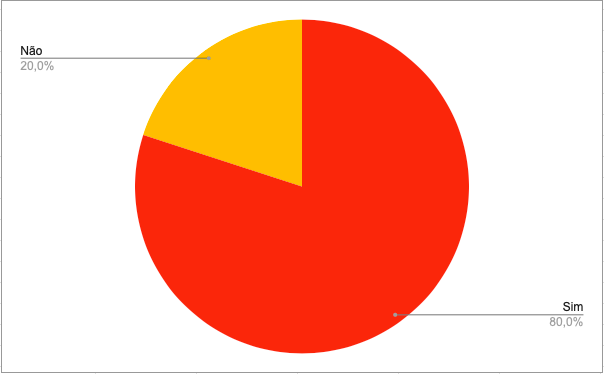
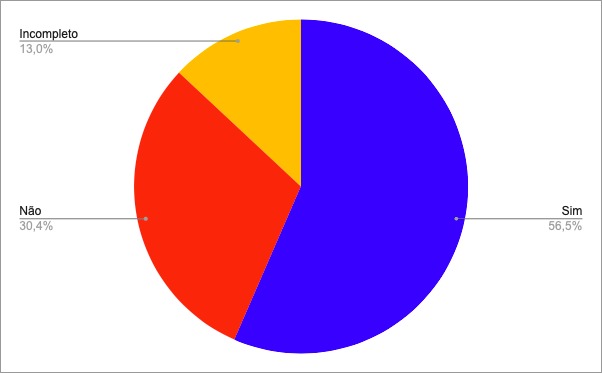
Correcao verificacao planejamnto analise de tarefas

diff --git a/docs/Verificacao/OpenStreetMap/Entrega4/Planejamento-Avaliacao-AnaliseTarefas.md b/docs/Verificacao/OpenStreetMap/Entrega4/Planejamento-Avaliacao-AnaliseTarefas.md
@@ -18,30 +18,33 @@ Reavaliamos nosso checklist com base nos pontos levantados pelo grupo 3 e nas li
 
 ## Checklist
 
-Os checklists foram estabelecidos com base nos critérios do livro Interação Humano-Computador[4], nas verificações realizadas pelo nosso grupo, OpenStreetMap[5], e pelo Grupo 3, Banco Central[6], além das perguntas padrões estabelecidas no [Planejamento Geral](../0planejamento-geral.md). A tabela abaixo apresenta o checklist de verificação da versão 1.0 do artefato do Planejamento da Análise de Tarefas.
+Os checklists foram estabelecidos com base nos critérios do livro Interação Humano-Computador e Experiência do usuário (capítulo 11)[4], nas verificações realizadas pelo nosso grupo, OpenStreetMap[5], e pelo Grupo 3, Banco Central[6], além das perguntas padrões estabelecidas no [Planejamento Geral](../0planejamento-geral.md). A tabela abaixo apresenta o checklist de verificação da versão 1.0 do artefato do Planejamento da Análise de Tarefas.
 
-| ID | Pergunta                                                                                                                        | Avaliação | Observação |
-|----|---------------------------------------------------------------------------------------------------------------------------------|-----------|------------|
-| 1  | O artefato possui uma introdução condizente com o conteúdo do texto?                                                           |    Sim       |            |
-| 2  | Todas as bibliografias/referências bibliográficas são utilizadas no texto?                                                     |      Sim     |            |
-| 3  | Todas as tabelas e figuras são chamadas no texto, possuem legendas e fontes?                                                   |    Sim       |           |
-| 4  | As metodologias do texto definem de forma condizente as formas e os métodos que o grupo realizou o artefato?                   |     Sim      |            |
-| 5  | O artefato segue o Framework DECIDE?                                                                                            |    Sim       |           |
-| 6  | O artefato define claramente as metas e objetivos da avaliação?                                                                 |    Sim       |            |
-| 7  | O artefato indica quais métodos de avaliação serão utilizados?                                       |          Sim |           |
-| 8  | Os métodos escolhidos para a avaliação são apropriados?                                                                       |     Sim      |            |
-| 9  | O artefato considera e aborda questões práticas relevantes para a avaliação?                                                    |      Sim     |            |
-| 10 | O artefato informa a quantidade de participantes envolvidos na avaliação e o motivo dessa quantidade?                             |     Não      |          |
-| 11 | O perfil dos participantes foi definido?                                                                                        |  Sim         |            |
-| 12 | O artefato possui um cronograma com datas, horários e locais das tarefas a serem executadas pelos participantes?                |     Não      |           |
-| 13 | O artefato identifica e descreve as questões específicas que a avaliação das análises de tarefas deve responder?                |     Sim      |            |
-| 14 | O artefato apresenta as ferramentas que serão utilizadas na avaliação?                                                                      |    Não       |            |
-| 15 | O artefato contempla considerações éticas importantes relacionadas à avaliação?                                  |      Sim     |            |
-| 16 | Foi realizado um teste piloto?                                                                                                  |    Não       |          |
-| 17 | O artefato apresenta os resultados obtidos com o teste piloto?                                                                  |    Não       |            |
-| 18 | O artefato apresenta quais tarefas serão avaliados?                                                                          |    Sim       |           |
-| 19 | O artefato possui a mesma quantidade de tarefas em relação à quantidade de integrantes do grupo?                           |     Sim      |           |
-| 20 | O artefato descreve como os dados coletados serão analisados e utilizados?                                                      |     Sim      |            |
+| ID | Pergunta | Avaliação | Observação |
+|----|----------|-----------|------------|
+| 1  | O artefato possui uma introdução condizente com o conteúdo do texto? | Sim |  |
+| 2  | Todas as bibliografias/referências bibliográficas são utilizadas no texto? | Sim |  |
+| 3  | Todas as tabelas e figuras são chamadas no texto, possuem legendas e fontes? | Sim |  |
+| 4  | As metodologias do texto definem de forma condizente as formas e os métodos que o grupo realizou o artefato? | Sim |  |
+| 5  | O artefato segue a estrutura do framework DECIDE? | Sim |  |
+| 6  | Os objetivos (que podem ser apropriação de tecnologia pelos usuários, ideias e alternativas de design, conformidade com um padrão, problemas na interação e na interface) estão claros e corretamente definidos? | Sim | Poderia deixar mais claro os principais objetivos |
+| 7  | Como atingir os objetivos (perguntas mais específicas para torná-los operacionais, perguntas a serem respondidas para verificar se os objetivos foram atingidos) está claro no artefato? | Não |  |
+| 8  | Os métodos (investigação, observação e/ou inspeção) para executar a avaliação estão definidos? | Sim |  |
+| 9  | Caso o método escolhido para avaliação envolva usuários, o perfil dos participantes foi especificado? | Sim |  |
+| 10 | Caso o método escolhido para avaliação envolva usuários, o número de participantes foi especificado? | Não |  |
+| 11 | O número de participantes tem um motivo para ter sido escolhido? | Não |  |
+| 12 | Caso o método escolhido para avaliação envolva usuários, as questões éticas são apresentadas com um termo de consentimento? | Incompleto | Não está claro a presença de um termo de consentimento |
+| 13 | Caso o método escolhido para avaliação envolva usuários, é apresentado um questionário pré-teste (questões relacionadas a características pessoais, experiências anteriores com tecnologia e conhecimento sobre o domínio, por exemplo) ou roteiro de entrevista estruturada para coletar informações dos participantes? | Incompleto | Possui as perguntas a serem realizadas na avaliação, porem não estão divididas em pré-teste e pós-teste, o que pode causar uma confusão no entrevistador |
+| 14 | Caso o método escolhido para avaliação envolva usuários, é apresentado um roteiro de entrevista pós-teste (questões relacionadas a informações sobre a opinião e os sentimentos do participante decorrentes da experiência de uso observada)? | Incompleto | Possui as perguntas a serem realizadas na avaliação, porem não estão divididas em pré-teste e pós-teste, o que pode causar uma confusão no entrevistador |
+| 15 | O escopo da avaliação (delimitar quais partes da interface, caminhos de interação, tarefas e perfis de usuário devem fazer parte da avaliação) está definido? | Sim |  |
+| 16 | O escopo da avaliação está de acordo com os objetivos? | Sim |  |
+| 17 | Os recursos para realizar a avaliação estão indicados? | Sim | Poderia criar um tópico separado para falar dos recursos |
+| 18 | Os avaliadores que participarão da avaliação estão apresentados? | Não |  |
+| 19 | Possui prazo/cronograma para realizar as etapas das avaliações? | Não |  |
+| 20 | O artefato apresenta a menção de um teste piloto? | Não | |
+| 21 | O artefato apresenta a realização de um teste piloto? | Não |  |
+| 22 | O artefato apresenta como os dados coletados serão interpretados para atribuir significado a eles? | Sim |  |
+| 23 | O artefato apresenta como será o relato dos resultados utilizando uma consolidação após a interpretação? | Sim |  |
 
 
 A figura 1 abaixo apresenta um gráfico de pizza com o resultado da avaliação do checklist do Planejamento da Análise de Tarefas.
@@ -62,11 +65,18 @@ Com base na inspeção realizada, passaremos para o processo de correção. Iden
 
 |ID |Descrição resumida|Detalhes da correção|Responsável pela correção|Revisor|Status|
 |-------|------|------|---------|---|--|
-| 10 | O artefato não informa a quantidade de participantes envolvidos na avaliação nem o motivo dessa quantidade |   Especificar a quantidade de participantes e o motivo dessa quantidade     | Guilherme ||-|
-| 12 | O artefato não possui um cronograma.      |  |Guilherme||-
-| 14 | Não há menção das ferramentas que serão utilizadas na avaliação |  Falar as ferramentas que serão utilizadas na avaliação.     | Guilherme ||-|
-| 16 | Não possui teste piloto. |       | Guilherme ||-|
-| 17 | Não possui teste piloto. |       | Guilherme ||-|
+| 7 | O artefato não apresenta as perguntas a serem respondidas para verificar se os objetivos foram alcançados |   Apresentar as perguntas para verificar se os objetivos da avaliação foram alcançados     | Raquel e Caetano | Guilherme |-|
+| 10 | O número de participantes não foi especificado.      | Especificar a quantidade de participantes da avaliação. |Raquel e Caetano| Guilherme |-
+| 11 | Não há o motivo do número dos participantes. |  Apresentar a motivo da escolha da quantidade dos participantes escolhidos.     | Raquel e Caetano |Guilherme|-|
+| 12 | Não está claro a presença de um termo de consentimento. |    O artefato fala sobre questões éticas, porem não fala sobre o termo de consentimento.   | Raquel e Caetano |Guilherme|-|
+| 13 | Não está claro quais são as perguntas pré-teste. |   Dividir a tabela das perguntas em pré-teste e pós-teste   | Raquel e Caetano |Guilherme|-|
+| 14 | Não está claro quais são as perguntas pós-teste. |   Dividir a tabela das perguntas em pré-teste e pós-teste   | Raquel e Caetano |Guilherme|-|
+| 18 | Os avaliadores que participarão da avaliação não estão apresentados. |   Apresentar os avaliadores envolvidos na avaliação.  | Raquel e Caetano |Guilherme|-|
+| 19 | Não possui prazo/cronograma para realizar as etapas das avaliações. |   Apresentar um cronograma para realizar as etapas das avaliações.  | Raquel e Caetano |Guilherme|-|
+| 20 | O artefato não apresenta a menção de um teste piloto. |   Apresentar que será realizado um teste piloto.  | Raquel e Caetano |Guilherme|-|
+| 21 | O artefato não apresenta a realização de um teste piloto. |   Apresentar um teste piloto.  | Raquel e Caetano |Guilherme|-|
+
+
 
 
 Tabela 2 - Distribuição da Correção dos Artefatos (Fonte: Autores)
@@ -78,41 +88,36 @@ Abaixo, na tabela 3, encontra-se o checklist feito após a correção do Planeja
 
 <center>
 
-| ID | Pergunta                                                                                                                        | Avaliação | Observação |
-|----|---------------------------------------------------------------------------------------------------------------------------------|-----------|------------|
-| 1  | O artefato possui uma introdução condizente com o conteúdo do texto?                                                           |    Sim       |            |
-| 2  | Todas as bibliografias/referências bibliográficas são utilizadas no texto?                                                     |      Sim     |            |
-| 3  | Todas as tabelas e figuras são chamadas no texto, possuem legendas e fontes?                                                   |    Sim       |           |
-| 4  | As metodologias do texto definem de forma condizente as formas e os métodos que o grupo realizou o artefato?                   |     Sim      |            |
-| 5  | O artefato segue o Framework DECIDE?                                                                                            |    Sim       |           |
-| 6  | O artefato define claramente as metas e objetivos da avaliação?                                                                 |    Sim       |            |
-| 7  | O artefato indica quais métodos de avaliação serão utilizados?                                       |          Sim |           |
-| 8  | Os métodos escolhidos para a avaliação são apropriados?                                                                       |     Sim      |            |
-| 9  | O artefato considera e aborda questões práticas relevantes para a avaliação?                                                    |      Sim     |            |
-| 10 | O artefato informa a quantidade de participantes envolvidos na avaliação e o motivo dessa quantidade?                             |     Sim      |          |
-| 11 | O perfil dos participantes foi definido?                                                                                        |  Sim         |            |
-| 12 | O artefato possui um cronograma com datas, horários e locais das tarefas a serem executadas pelos participantes?                |     Sim      |           |
-| 13 | O artefato identifica e descreve as questões específicas que a avaliação das análises de tarefas deve responder?                |     Sim      |            |
-| 14 | O artefato apresenta as ferramentas que serão utilizadas na avaliação?                                                                      |    Sim       |            |
-| 15 | O artefato contempla considerações éticas importantes relacionadas à avaliação?                                  |      Sim     |            |
-| 16 | Foi realizado um teste piloto?                                                                                                  |    Não       |          |
-| 17 | O artefato apresenta os resultados obtidos com o teste piloto?                                                                  |    Não       |            |
-| 18 | O artefato apresenta quais tarefas serão avaliados?                                                                          |    Sim       |           |
-| 19 | O artefato possui a mesma quantidade de tarefas em relação à quantidade de integrantes do grupo?                           |     Sim      |           |
-| 20 | O artefato descreve como os dados coletados serão analisados e utilizados?                                                      |     Sim      |            |
+| ID | Pergunta | Avaliação | Observação |
+|----|----------|-----------|------------|
+| 1  | O artefato possui uma introdução condizente com o conteúdo do texto? |  |  |
+| 2  | Todas as bibliografias/referências bibliográficas são utilizadas no texto? |  |  |
+| 3  | Todas as tabelas e figuras são chamadas no texto, possuem legendas e fontes? |  |  |
+| 4  | As metodologias do texto definem de forma condizente as formas e os métodos que o grupo realizou o artefato? |  |  |
+| 5  | O artefato segue a estrutura do framework DECIDE? |  |  |
+| 6  | Os objetivos (que podem ser apropriação de tecnologia pelos usuários, ideias e alternativas de design, conformidade com um padrão, problemas na interação e na interface) estão claros e corretamente definidos? |  |  |
+| 7  | Como atingir os objetivos (perguntas mais específicas para torná-los operacionais, perguntas a serem respondidas para verificar se os objetivos foram atingidos) está claro no artefato? |  |  |
+| 8  | Os métodos (investigação, observação e/ou inspeção) para executar a avaliação estão definidos? |  |  |
+| 9  | Caso o método escolhido para avaliação envolva usuários, o perfil dos participantes foi especificado? |  |  |
+| 10 | Caso o método escolhido para avaliação envolva usuários, o número de participantes foi especificado? |  |  |
+| 11 | O número de participantes tem um motivo para ter sido escolhido? |  |  |
+| 12 | Caso o método escolhido para avaliação envolva usuários, as questões éticas são apresentadas com um termo de consentimento? |  |  |
+| 13 | Caso o método escolhido para avaliação envolva usuários, é apresentado um questionário pré-teste (questões relacionadas a características pessoais, experiências anteriores com tecnologia e conhecimento sobre o domínio, por exemplo) ou roteiro de entrevista estruturada para coletar informações dos participantes? |  |  |
+| 14 | Caso o método escolhido para avaliação envolva usuários, é apresentado um roteiro de entrevista pós-teste (questões relacionadas a informações sobre a opinião e os sentimentos do participante decorrentes da experiência de uso observada)? |  |  |
+| 15 | O escopo da avaliação (delimitar quais partes da interface, caminhos de interação, tarefas e perfis de usuário devem fazer parte da avaliação) está definido? |  |  |
+| 16 | O escopo da avaliação está de acordo com os objetivos? |  |  |
+| 17 | Os recursos para realizar a avaliação estão indicados? |  |  |
+| 18 | Os avaliadores que participarão da avaliação estão apresentados? |  |  |
+| 19 | Possui prazo/cronograma para realizar as etapas das avaliações? |  |  |
+| 20 | O artefato apresenta a menção de um teste piloto? |  | |
+| 21 | O artefato apresenta a realização de um teste piloto? |  |  |
+| 22 | O artefato apresenta como os dados coletados serão interpretados para atribuir significado a eles? |  |  |
+| 23 | O artefato apresenta como será o relato dos resultados utilizando uma consolidação após a interpretação? |  |  |
 
 Tabela 3 - Checklist Pós Correção do Planejamento da Avaliação da Análise de Tarefas (Fonte: Autores)
 
 </center>
 
-A figura 2 abaixo mostra um gráfico de pizza com o resultado da avaliação do checklist do Planejamento da Análise de Tarefas após a correção.
-
-<center>
-
-<img src="../../assets/img/planejamento-Tarefas-depois.png"></img>
-<p>Figura 2 - Gráfico Checklist Pós Correção Planejamento da Análise de Tarefas (Fonte: Autores)</p>
-
-</center>
 
 ## Referência bibliográfica
 
@@ -122,7 +127,7 @@ A figura 2 abaixo mostra um gráfico de pizza com o resultado da avaliação do 
 
 > [3] BUSH, Marilyn, Chris Gerrard, Clifford Shelley. Fagan Inspection: The Silver Bullet No-one Wants to Fire. London SPIN, 25 mar. 2010.
 
-> [4] BARBOSA, S. D. J.; SILVA, B. S. Interação Humano-Computador. Rio de Janeiro: Elsevier, 2011. Acesso em 17/06/2023
+> [4] Barbosa, S. D. J.; Silva, B. S. da; Silveira, M. S.; Gasparini, I.; Darin, T.; Barbosa, G. D. J. (2021) Interação Humano-Computador e Experiência do usuário.
 
 > [5] KISHIMOTO, Guilherme. Verificação do artefato "Planejamento da Análise de Tarefas". Repositório do Grupo OpenStreetMap da disciplina de Interação Humano Computador da Universidade de Brasília, 2023. Disponível em: https://interacao-humano-computador.github.io/2023.1-OpenStreetMap/DesignAvaliação/analisetarefas/planejamento_analise_tarefa/. Acesso em 19/06/2023
 
@@ -133,3 +138,4 @@ A figura 2 abaixo mostra um gráfico de pizza com o resultado da avaliação do 
 |    Data    | Data Prevista de Revisão | Versão |      Descrição       |                                 Autor                                  |               Revisor               |
 | :--------: | :----------------------: | :----: | :------------------: | :--------------------------------------------------------------------: | :---------------------------------: |
 | 19/06/2023 |        19/06/2023        |  1.0   | Criação do documento |  [Guilherme](https://github.com/guilhermekishimoto) | [Paulo]() |
+| 04/07/2023 |        04/07/2023        |  1.1   | Refatoração do Checklist |  [Guilherme](https://github.com/guilhermekishimoto) | [Paulo]() |

diff --git a/docs/Verificacao/OpenStreetMap/Entrega4/0planejamento.md b/docs/Verificacao/OpenStreetMap/Entrega4/0planejamento.md
@@ -28,12 +28,13 @@ Como apresentado no Planejamento Geral, durante o dia 12 ao dia 19 de junho de 2
 |Artefato|Responsável |
 |-------|------|
 |[Planejamnto da Avaliação do Storyboard](./../../../DesignAvalia%C3%A7%C3%A3o/storyboard/planejamento_storyboard.md) |[Guilherme](https://github.com/guilhermekishimoto)|
-|[Metas de usabilidade](./guia-estilo.md) |[Paulo]()|
-|[Guia de Estilo](./guia-estilo.md) | [Raquel](https://github.com/raqueleucaria) |
+|[Planejamnto da Avaliação da Análise de Tarefas](./../../../DesignAvalia%C3%A7%C3%A3o/analisetarefas/planejamento_analise_tarefa.md) |[Guilherme](https://github.com/guilhermekishimoto)|
+|[Planejamento da Avaliação do Relato dos Resultados da  Análise de Tarefas](../Entrega4/Planejamento-Relato-Resultados.md) | [Guilherme](https://github.com/guilhermekishimoto) |
+|[Planejamento da Avaliação do Relato dos Resultados do Storyboard](../Entrega4/Planejamento-Relato-Storyboard) | [Guilherme](https://github.com/guilhermekishimoto) |
 
 
 
-<p>Tabela 2 - Distribuição da Correção dos Artefatos (Fonte: Autores)</p>
+<p>Tabela 1 - Distribuição da Correção dos Artefatos (Fonte: Autores)</p>
 </center>
 
 
